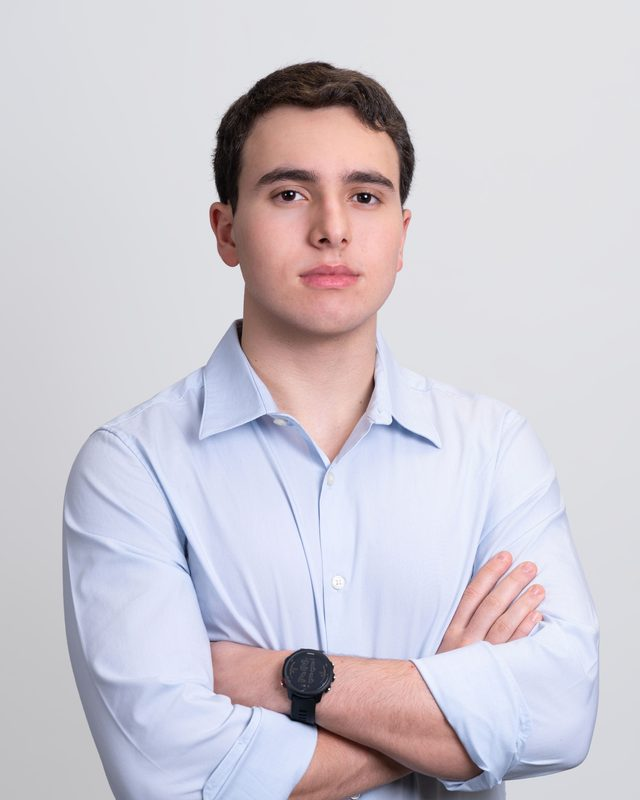
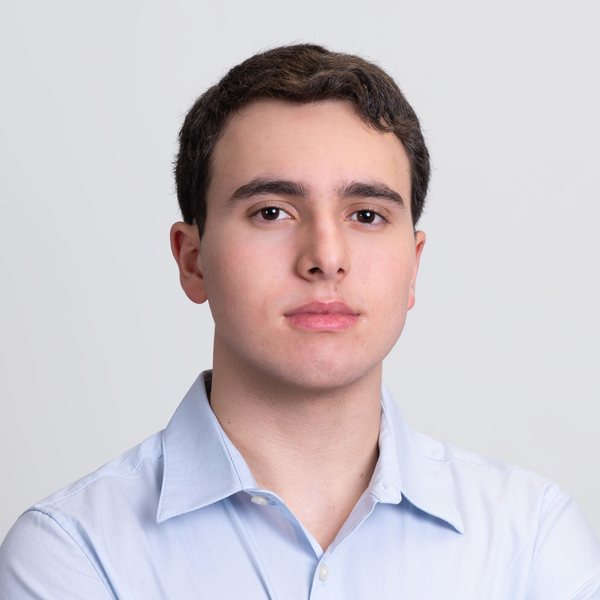
Fotos dos membros redondas, com foco no rosto e ombros

diff --git a/src/FGVDigitalAssets.jsx b/src/FGVDigitalAssets.jsx
@@ -92,15 +92,12 @@ const PAGES_CSS = `
   .re-members-grid--md { --cols: 5; }
   .re-members-grid > .re-member { flex: 0 0 calc((100% - (var(--cols) - 1) * var(--gap)) / var(--cols)); }
   .re-members-grid--lg > .re-member { max-width: 225px; }
+  .re-members-grid--lg .re-member-photo { max-width: 215px; }
   .re-member { min-width: 0; text-align: center; }
-  .re-member-photo { position: relative; aspect-ratio: 4 / 5; overflow: hidden; border-radius: 3px; background: ${PAGE_COLORS.photo}; display: grid; place-items: center; }
-  .re-member-photo img { width: 100%; height: 100%; object-fit: cover; object-position: 50% 30%; display: block; filter: saturate(0.9); transition: transform .5s, filter .5s; }
+  .re-member-photo { position: relative; width: 100%; max-width: 190px; margin: 0 auto; aspect-ratio: 1 / 1; overflow: hidden; border-radius: 50%; background: ${PAGE_COLORS.photo}; display: grid; place-items: center; }
+  .re-member-photo img { width: 100%; height: 100%; object-fit: cover; object-position: center; display: block; filter: saturate(0.9); transition: transform .5s, filter .5s; }
   .re-member:hover .re-member-photo img { transform: scale(1.03); filter: saturate(1); }
   .re-member-initials { font-size: 36px; font-weight: 600; letter-spacing: 0.04em; color: #7A8597; }
-  .re-member-selo { position: absolute; left: 0; bottom: 0; width: 30px; height: 30px; display: grid; place-items: center; background: ${PAGE_COLORS.navy}; color: #fff; border-top-right-radius: 3px; }
-  .re-member-selo svg { width: 17px; height: 17px; }
-  .re-members-grid--lg .re-member-selo { width: 34px; height: 34px; }
-  .re-members-grid--lg .re-member-selo svg { width: 19px; height: 19px; }
   .re-member-info { padding-top: 18px; display: flex; flex-direction: column; align-items: center; gap: 6.3px; }
   .re-member-name { font-size: 18.9px; font-weight: 700; line-height: 1.25; letter-spacing: -0.02em; color: ${PAGE_COLORS.navy}; }
   .re-members-grid--lg .re-member-name { font-size: 20.7px; }
@@ -119,8 +116,6 @@ const PAGES_CSS = `
     .re-member-info { padding-top: 13.5px; }
     .re-member-name { font-size: 17.1px; } .re-members-grid--lg .re-member-name { font-size: 18.9px; }
     .re-member-cargo, .re-members-grid--lg .re-member-cargo { font-size: 14.76px; }
-    .re-member-selo, .re-members-grid--lg .re-member-selo { width: 26px; height: 26px; }
-    .re-member-selo svg, .re-members-grid--lg .re-member-selo svg { width: 14px; height: 14px; }
   }
 
   /* --- Alumni --- */
@@ -1051,9 +1046,6 @@ function MembersPage({ data, photo }) {
                     ) : (
                       <span className="re-member-initials">{initials(p.name)}</span>
                     )}
-                    <span className="re-member-selo" aria-hidden="true">
-                      <BrandMark />
-                    </span>
                   </div>
                   <div className="re-member-info">
                     <h3 className="re-member-name">{p.name}</h3>
